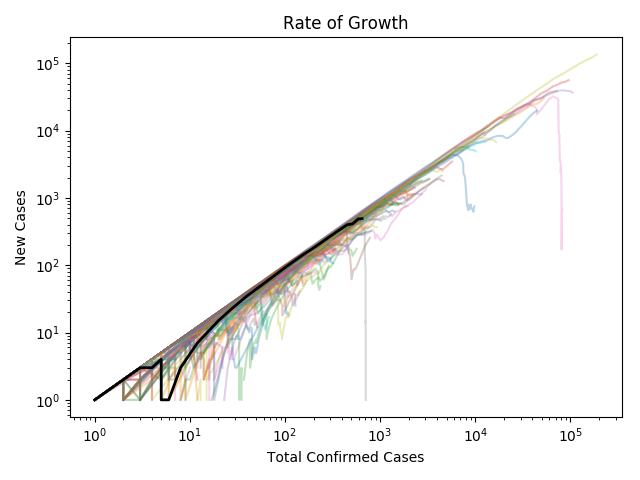
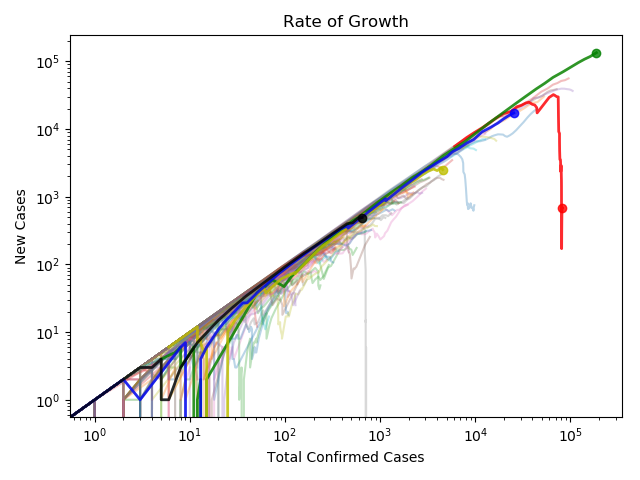
More countries emphasised

diff --git a/International/SomePlots.py b/International/SomePlots.py
@@ -21,43 +21,78 @@ data.index = dates
 data = data.T
 
 t = data.pivot_table(columns="Country/Region", aggfunc="sum")
-nz = "New Zealand"
+emphasis_countries = [("China", 'r'),("US", 'g'),("Australia", 'y'),("United Kingdom", 'b'), ("New Zealand", 'k')]
 
 for country in t:
-    t[country].plot(style='-', alpha=0.3)
+    t[country].plot(style='-', alpha=0.3, label=None)
 
-t[nz].plot(style='k-', linewidth=2)
+for country, colour in emphasis_countries:
+    t[country].plot(color=colour, label=country, linewidth=2)
 plt.gca().set_yscale('log')
-plt.title("NZ vs Rest of the World")
+plt.title("Worldwide Cases by Country")
 plt.ylabel("Confirmed Cases")
 plt.xlabel("Date")
+#plt.legend()
 plt.tight_layout()
 plt.savefig("NZvsWorld.png")
 plt.gca().set_yscale('linear')
+plt.tight_layout()
 plt.savefig("NZvsWorldLinear.png")
+
 
 plt.figure()
 delta = t.diff()
 delta = delta.rolling(7).sum()
 
+#Window it a bit
 
 for country in t:
-    plt.loglog(t[country], delta[country], alpha=0.3)
-plt.loglog(t[nz], delta[nz], color='k', linewidth=2)
+    plt.loglog(t[country], delta[country], alpha=0.3, label=None)
+for country, colour in emphasis_countries:
+    plt.loglog(t[country], delta[country], color=colour, alpha=0.8, label=country, linewidth=2)
+    plt.loglog(t[country][-1], delta[country][-1], 'o', color=colour, alpha=0.8)
 plt.title("Rate of Growth")
 plt.ylabel("New Cases")
 plt.xlabel("Total Confirmed Cases")
+#plt.legend()
 plt.tight_layout()
 plt.savefig("ExponentialGrowth.png")
 
 plt.figure()
+plt.yscale('log')
+
 
 for country in t:
     d_tmp = np.array(t[country])
     to_plot = d_tmp[d_tmp >= 10]
-    plt.semilogy(to_plot, alpha=0.3)
-    if country == nz:
-        plt.semilogy(to_plot, color='k', linewidth=2)
+    plt.semilogy(to_plot, alpha=0.3, label=None)
+
+for rate in [2, 5]:
+    label = "Doubling every %d days" % rate
+    x = np.linspace(0, 70, 100)
+    y = 2 ** (x / rate) * 10
+    y[y > 1e6] = float('NaN')
+    plt.semilogy(x, y, '--', alpha=0.5, color = 'k')
+    
+    i = np.argmax(np.nan_to_num(y,0))
+    
+    pos = int(3*i/5)
+    
+    angle_data = np.rad2deg(np.arctan2(y[pos]-y[pos-2], x[pos]-x[pos-2]))
+
+    # angle in screen coordinates
+    angle_screen = plt.gca().transData.transform_angles(np.array((angle_data,)), 
+                                              np.array([x[pos], y[pos]]).reshape((1, 2)))[0]
+    
+    plt.gca().annotate(label, xy=(x[pos],y[pos]), xytext=(5,5), textcoords="offset points", 
+                rotation_mode='anchor', rotation=angle_screen, alpha=0.5).set_bbox(
+                dict(facecolor='w', alpha=0.7, edgecolor='k', linewidth=0)) 
+
+for country, colour in emphasis_countries:
+    d_tmp = np.array(t[country])
+    to_plot = d_tmp[d_tmp >= 10]
+    plt.semilogy(to_plot, color=colour, alpha=0.8, label=country)
+
 plt.title("Comparative Rate of Growth")
 plt.ylabel("Total Cases")
 plt.xlabel("Days since 10 cases")

diff --git a/Simulations/SIRD.py b/Simulations/SIRD.py
@@ -111,7 +111,7 @@ def small_bubbles():
     for i in range(len(num_in_bubble)):
         # reset colours
         plt.gca().set_prop_cycle(None)
-        plt.plot(t, y_lots[i], alpha = 0.1)
+        plt.plot(t, y_lots[i], alpha = 0.3)
 
     # Overlay it on top again. Need it at the start to get the legend right
     plt.gca().set_prop_cycle(None)

diff --git a/README.md b/README.md
@@ -107,11 +107,11 @@ And taking into account how many people are actually serviced by that District H
 ![NZ's Total Cases, By DHB Per Capita](https://raw.githubusercontent.com/mchilcott/TrackingCOVID19/master/NZModel/NZByDHBPerCap.png)
 
 ### NZ vs The World
-In each of these graphs, New Zealand's state is shown in black. (GO THE ALL BLACKS! Oh wait... no sport in a lock-down.)
+In each of these graphs, New Zealand's state is shown in black. (GO THE ALL BLACKS! Oh wait... no sport in a lock-down.) For comparason, the other countries in vivid colours are: China in red, US in green, UK in blue, and Australia in yellow.
 
 ![International Cases, Log Scale](https://raw.githubusercontent.com/mchilcott/TrackingCOVID19/master/International/NZvsWorld.png)
 
-Note that this is a log scale, so that we can see what's going on. On a linear plot, we see the small scale of our infection compared to the rest of the world. China is the early riser, and then the US, Italy and Spain surpass their reported case number, with the US in the lead for case number, and still sky-rocketing.
+Note that this is a log scale, so that we can see what's going on. On a linear plot, we see the small scale of our infection compared to the rest of the world. China is the early riser, and then the US, Italy and Spain surpass China's reported case number, with the US currently in the lead for case number, and still sky-rocketing.
 
 ![International Cases, from 10 cases](https://raw.githubusercontent.com/mchilcott/TrackingCOVID19/master/International/NZvsWorldLinear.png)
 
